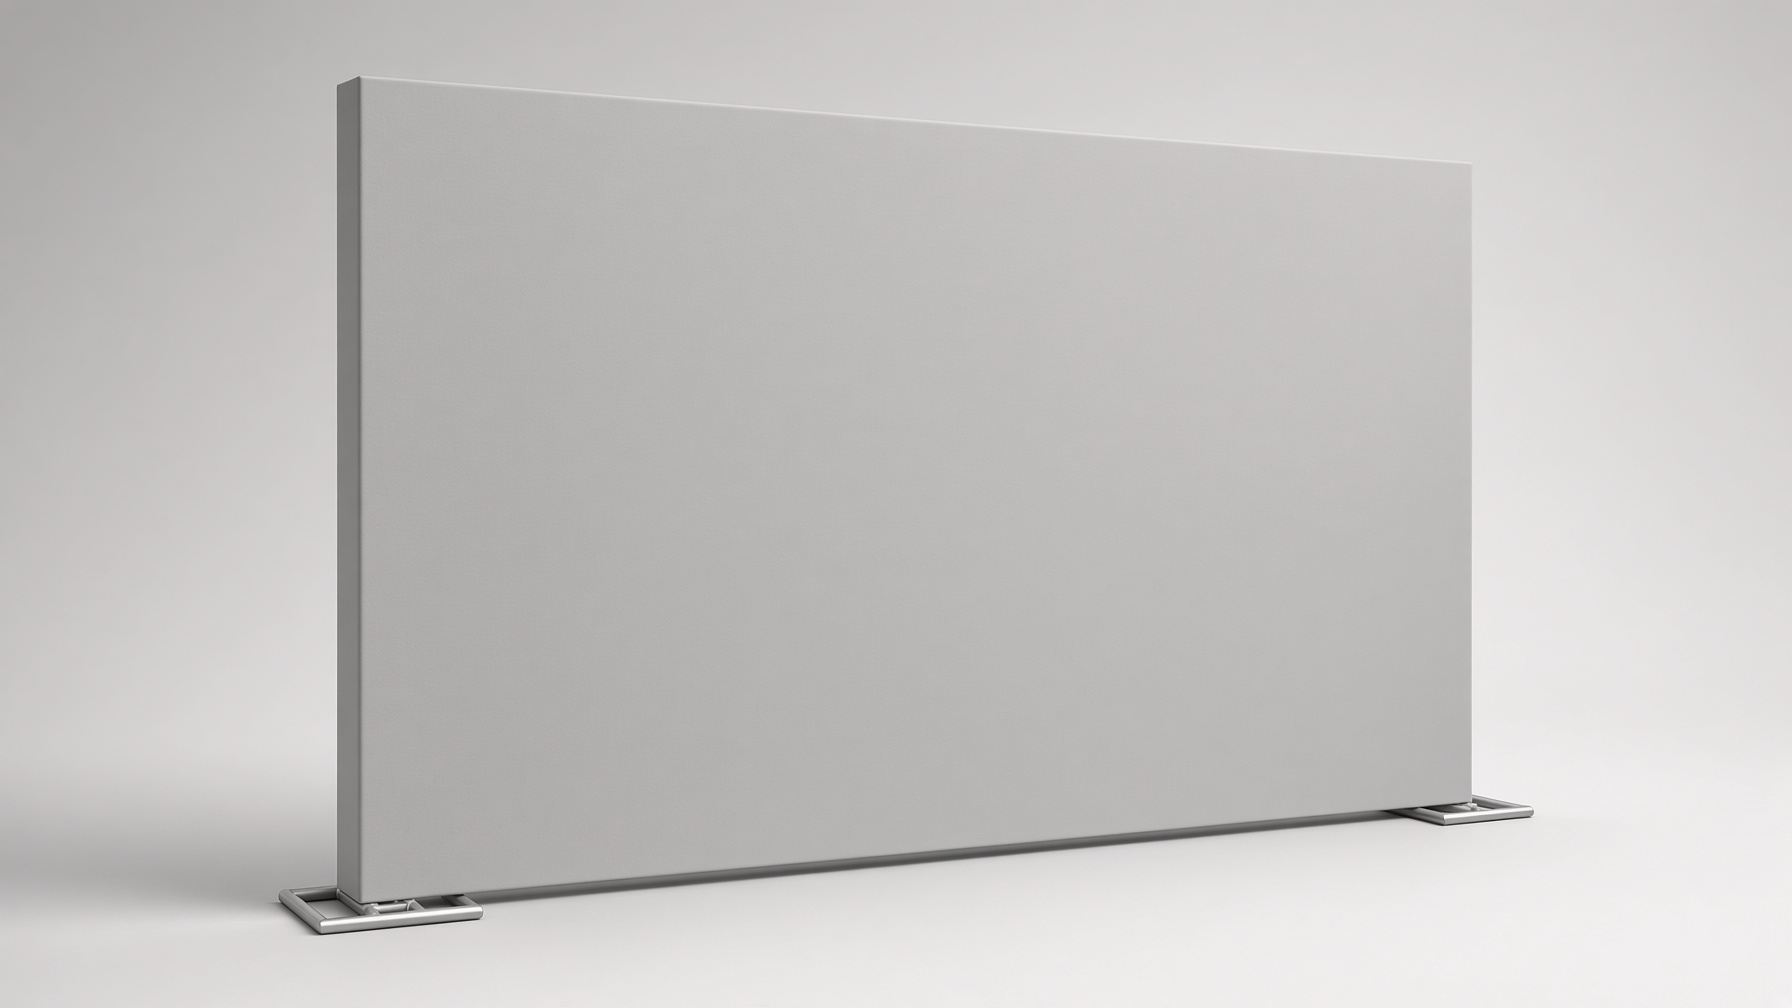
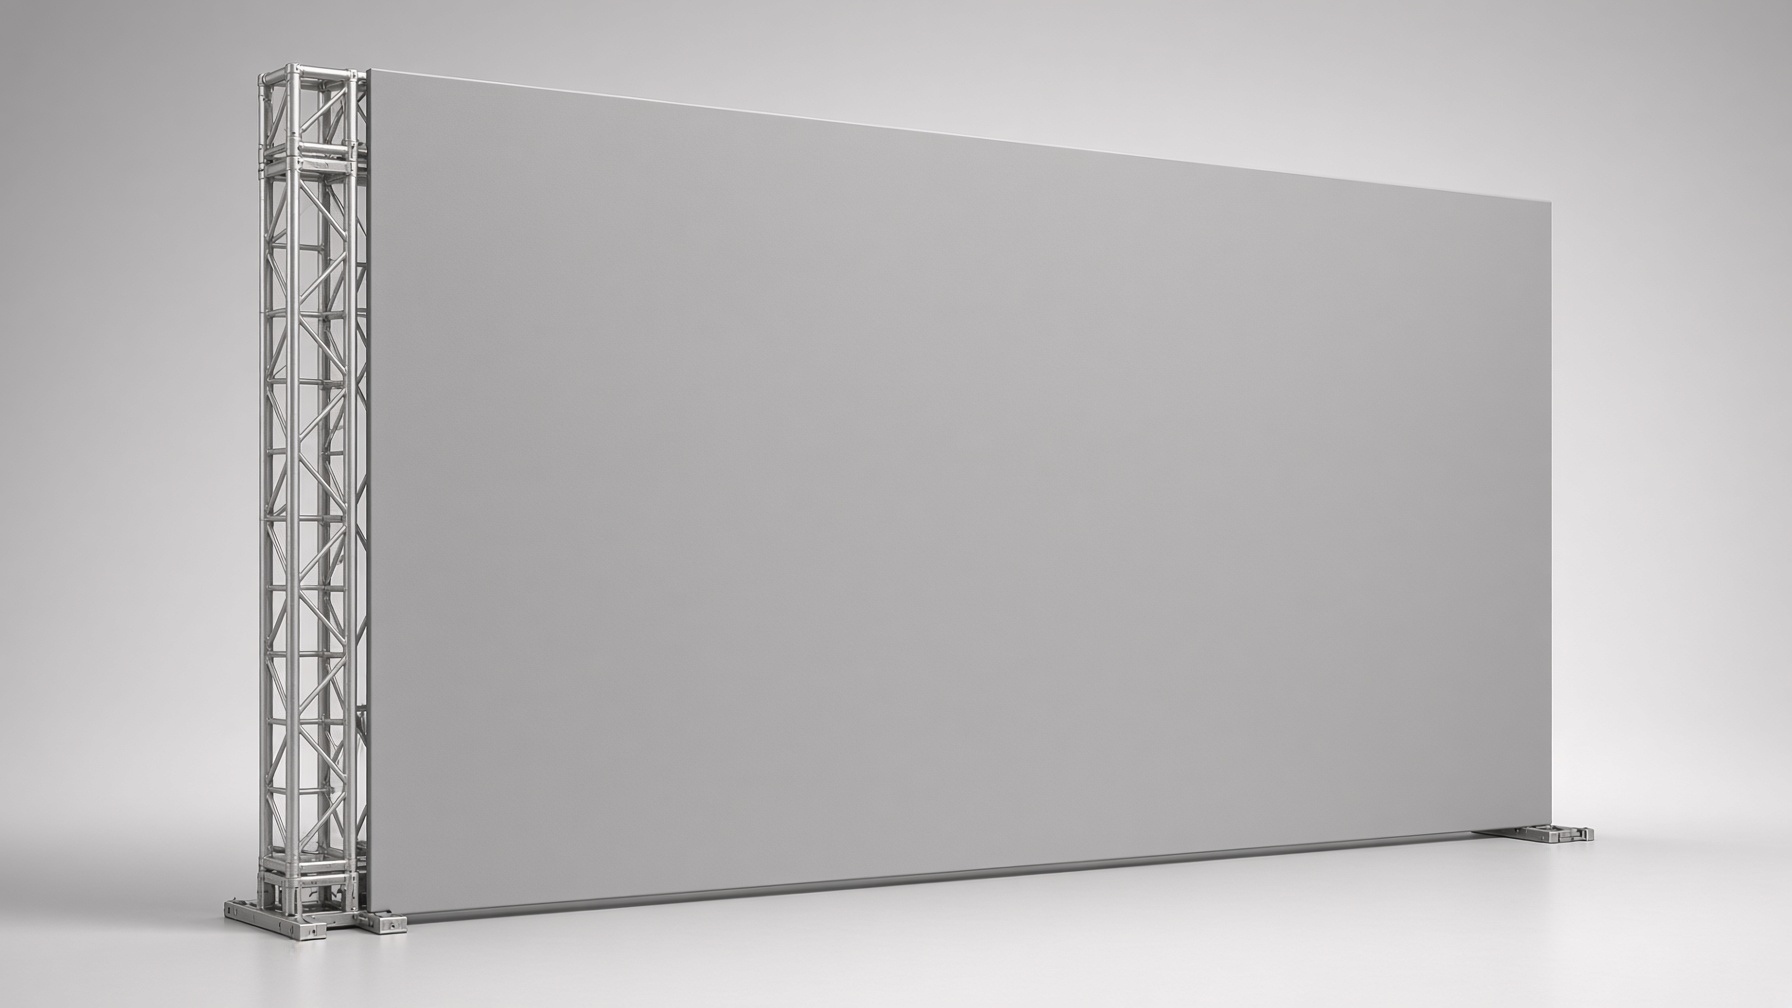
Mostra a treliça lateral no mockup do envelopado parcial
A lona cobre a frente e uma parte da estrutura fica aparente na lateral.

Changed region(s): [[0.0, 0.0615, 0.9062, 0.9534], [0.875, 0.0, 1.0, 0.1538], [0.5, 0.123, 0.625, 0.1538]]

diff --git a/index.html b/index.html
@@ -280,7 +280,7 @@
       const mockups = {
         boxtruss_aparente: ['mockups/boxtruss-aparente.jpg', 'Boxtruss aparente: a treliça fica visível em volta do banner.'],
         boxtruss_envelopado: ['mockups/boxtruss-envelopado.jpg', 'Envelopado: a lona cobre a frente e as laterais. A estrutura não aparece.'],
-        boxtruss_envelopado_parcial: ['mockups/boxtruss-envelopado-parcial.jpg', 'Envelopado parcial: a lona cobre a frente; as bases de metal ficam aparentes embaixo.'],
+        boxtruss_envelopado_parcial: ['mockups/boxtruss-envelopado-parcial.jpg', 'Envelopado parcial: a lona cobre a frente e uma parte da treliça fica aparente na lateral.'],
         metalon: ['mockups/backdrop-metalon.jpg', 'Metalon tipo caixa: painel fechado, com profundidade, sem treliça.']
       };
       const mockup = mockups[c.tipo];
